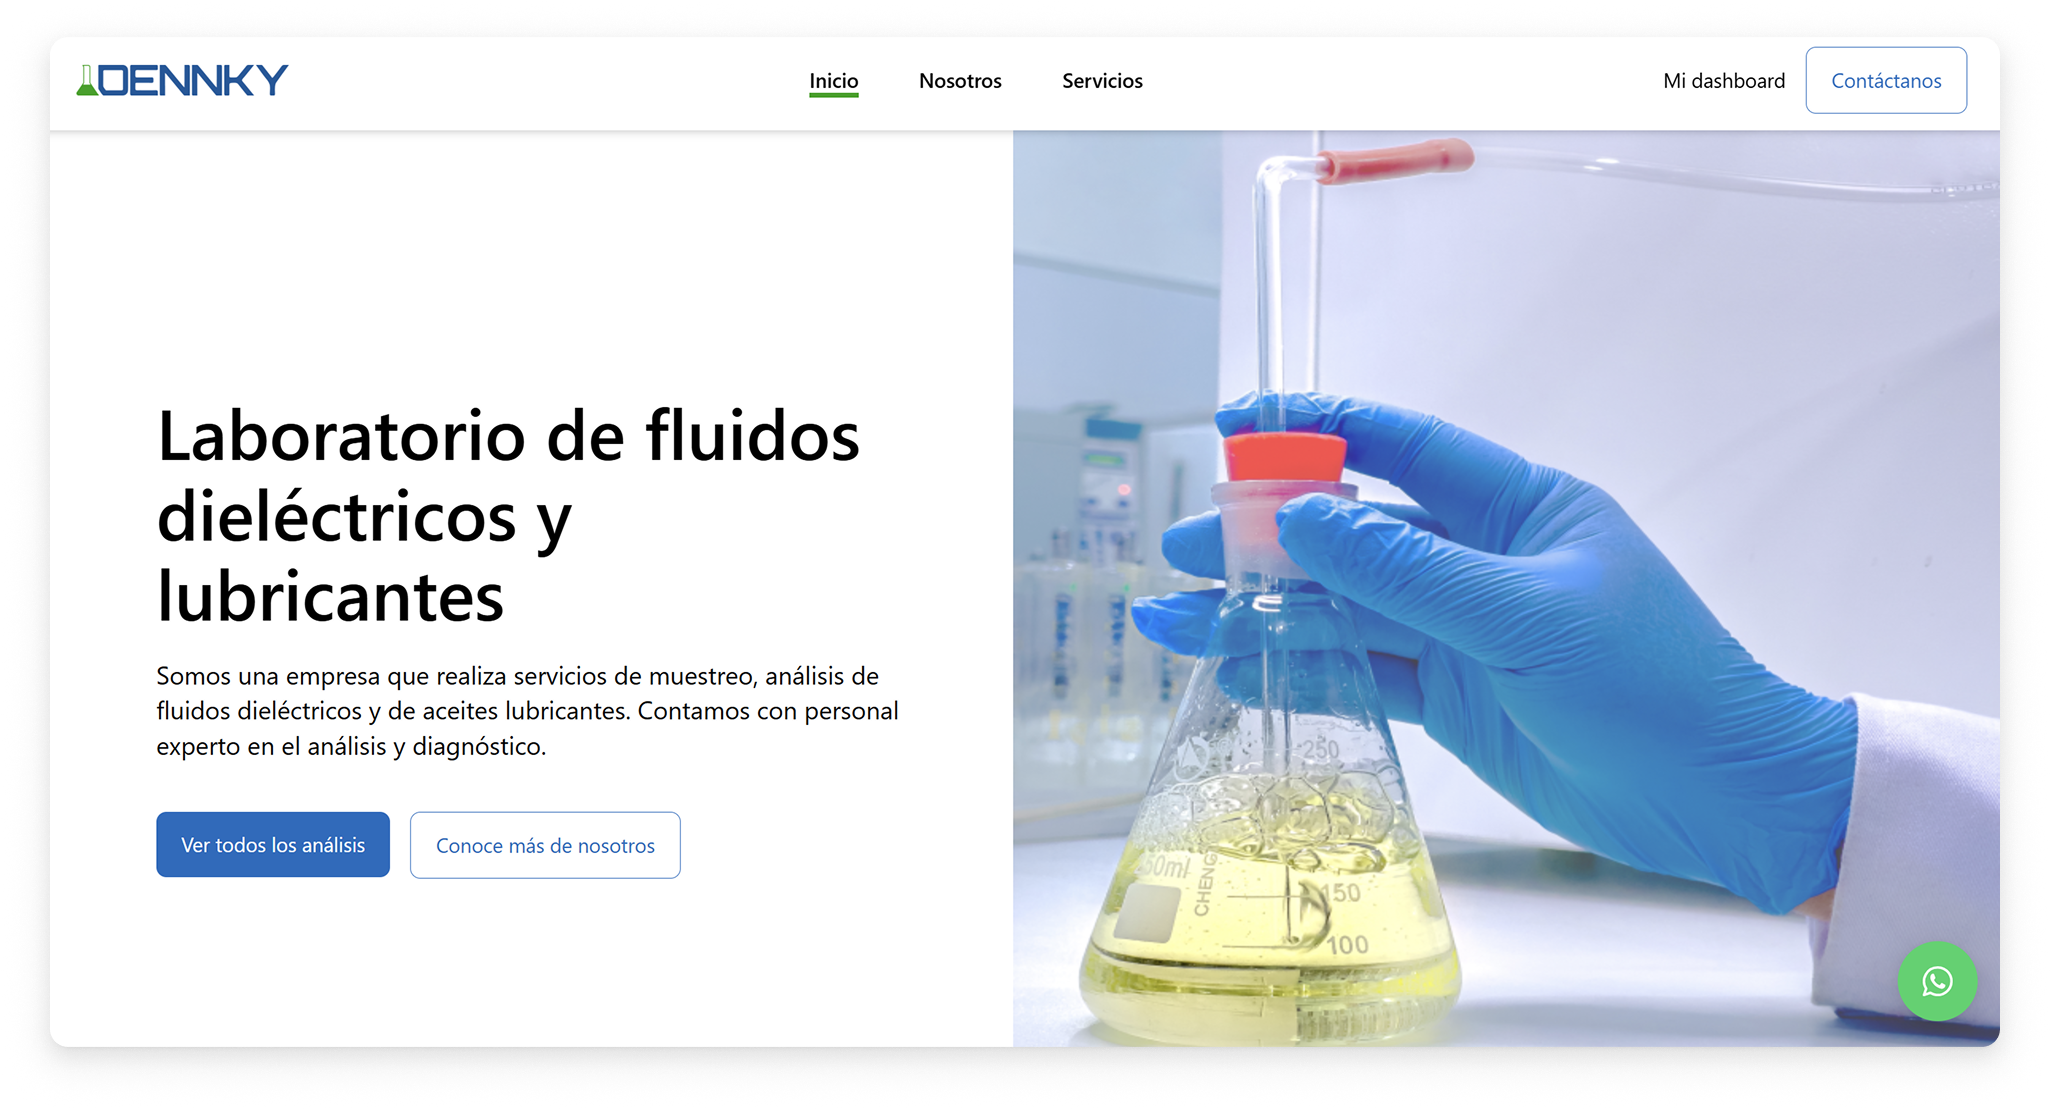
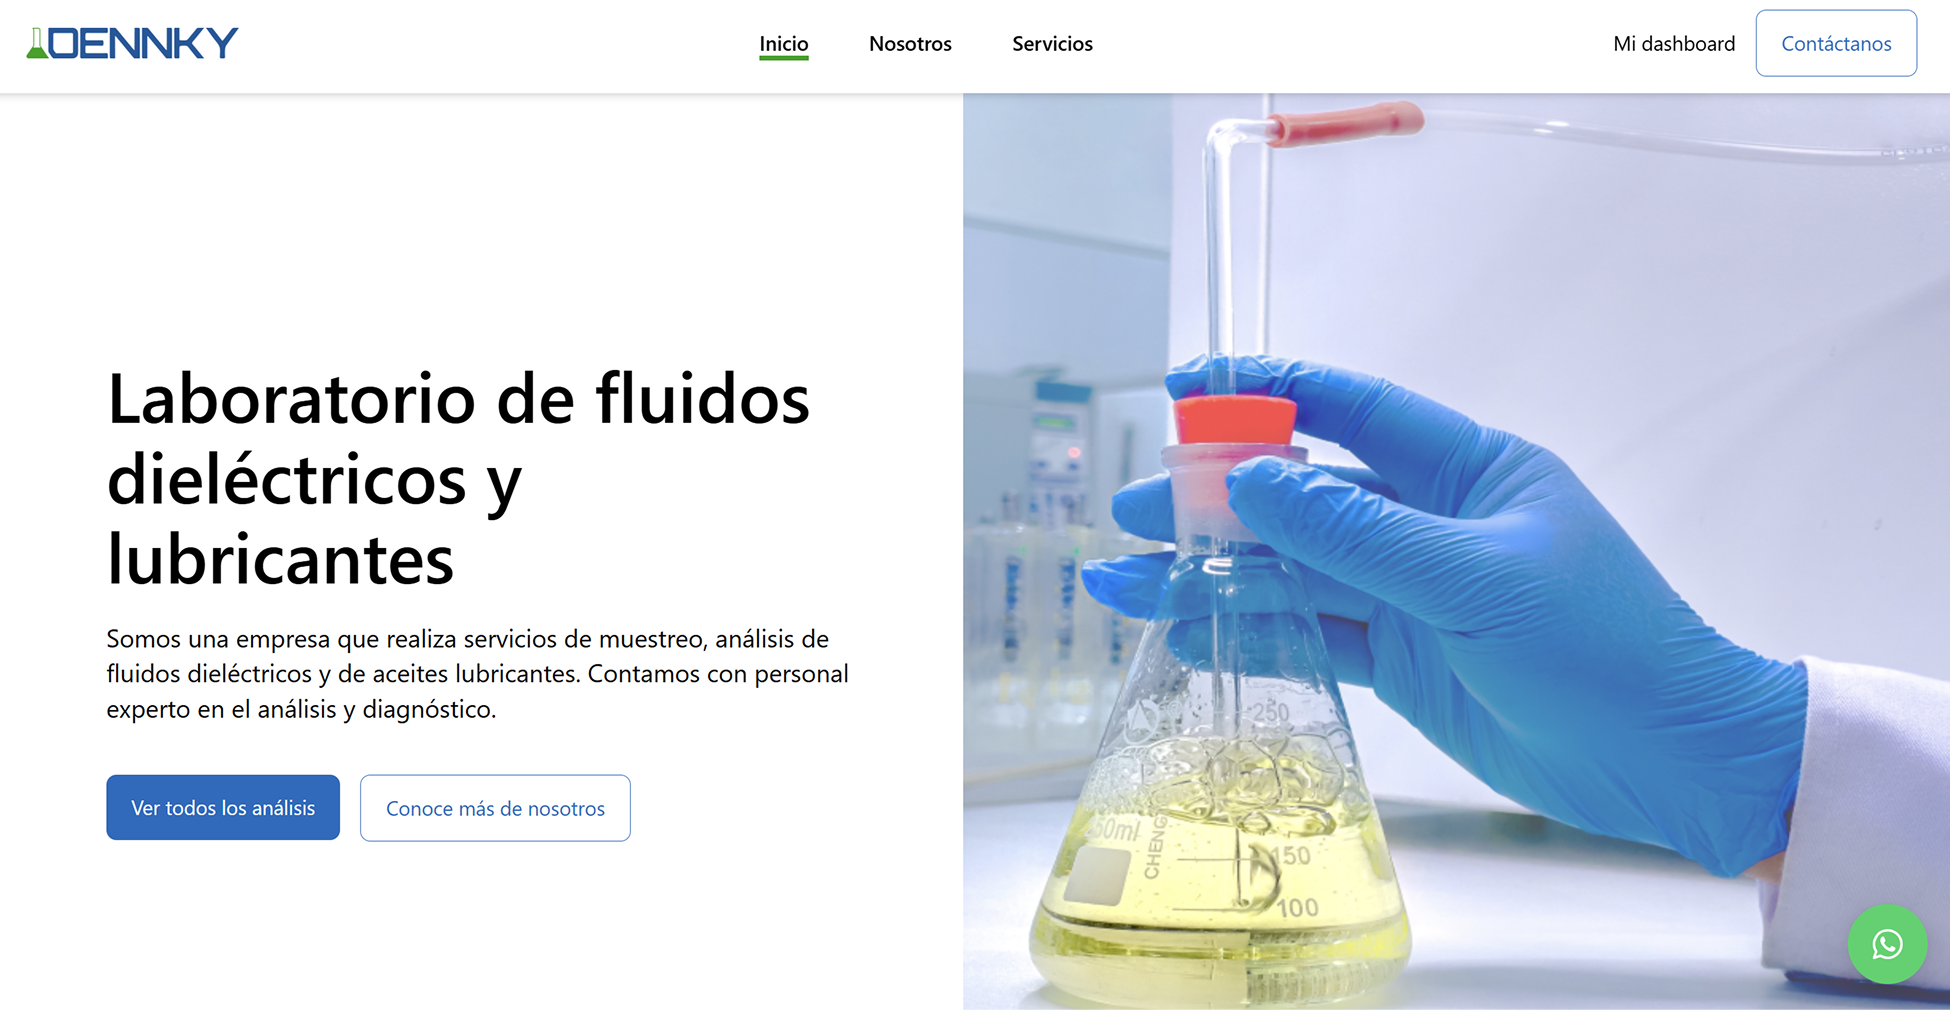
[add] images

diff --git a/src/@constants/proyects.ts b/src/@constants/proyects.ts
@@ -1,4 +1,5 @@
 import ProyectFirst from "../assets/images/proyect-landing.png";
+import ProyectFirstResponsive from "../assets/images/proyect-landing-responsive.png";
 // Importa otros iconos si es necesario, por ejemplo de @lucide/astro
 // import { Code, Globe } from "@lucide/astro";
 
@@ -32,7 +33,7 @@ export const PROYECTS_DATA: Project[] = [
       { icon: "Layout", label: "Tailwind" },
     ],
     responsiveImage: {
-      link: ProyectFirst,
+      link: ProyectFirstResponsive,
       responsive: true,
     },
   },
